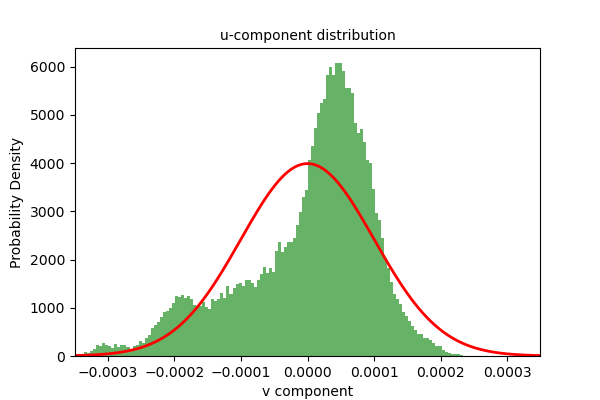
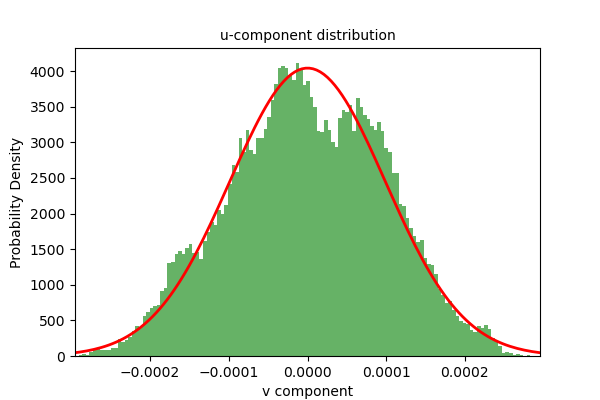
before_merge

diff --git a/numerical_solvers/visualization/histogram_turbulence.py b/numerical_solvers/visualization/histogram_turbulence.py
@@ -3,6 +3,7 @@ import numpy as np
 import matplotlib
 from matplotlib import cm
 import cv2
+import torch as t
 
 from numerical_solvers.solvers.SpectralTurbulenceGenerator import SpectralTurbulenceGenerator
 
@@ -35,22 +36,22 @@ def compute_kolmogorov_spectrum(u, v, Lx, Ly):
     Nx, Ny = u.shape
 
     # Compute the 2D Fourier transforms of the velocity fields
-    u_hat = np.fft.fft2(u)
-    v_hat = np.fft.fft2(v)
+    u_hat = t.fft.fft2(u)
+    v_hat = t.fft.fft2(v)
 
     # Compute the energy spectrum as the sum of the squared magnitudes of the Fourier coefficients
-    energy_spectrum = np.abs(u_hat)**2 + np.abs(v_hat)**2
+    energy_spectrum = t.abs(u_hat)**2 + t.abs(v_hat)**2
 
     # Average the energy spectrum over one dimension (e.g., the y-dimension)
-    energy_spectrum = np.mean(energy_spectrum, axis=0)
+    energy_spectrum = t.mean(energy_spectrum, axis=0)
 
     # Corresponding wavenumbers
-    kx = np.fft.fftfreq(Nx, d=Lx/Nx) * 2 * np.pi
-    ky = np.fft.fftfreq(Ny, d=Ly/Ny) * 2 * np.pi
-    k = np.sqrt(kx**2 + ky**2)
+    kx = t.fft.fftfreq(Nx, d=Lx/Nx) * 2 * t.pi
+    ky = t.fft.fftfreq(Ny, d=Ly/Ny) * 2 * t.pi
+    k = t.sqrt(kx**2 + ky**2)
 
     # Sort the spectrum by wavenumber
-    idx = np.argsort(k)
+    idx = t.argsort(k)
     k_sorted = k[idx]
     energy_spectrum_sorted = energy_spectrum[idx]
 
@@ -58,10 +59,10 @@ def compute_kolmogorov_spectrum(u, v, Lx, Ly):
 
 def plot_v_component_distribution(v_data, title):
     # Ensure the data is a 1D array
-    v_data = v_data.reshape(-1)  # Flatten the data
+    v_data = v_data.reshape(-1).cpu()  # Flatten the data
 
     num_bins = 128
-    counts, bins = np.histogram(v_data, bins=num_bins, density=True)
+    counts, bins = np.histogram(v_data, bins=num_bins, density=True) 
 
     bin_widths = np.diff(bins)
     integral = np.sum(counts * bin_widths)
@@ -99,7 +100,7 @@ grid_size = (256, 256)     # Number of grid points (Nx, Ny)
 
 # Initialize the SpectralTurbulenceGenerator (assuming it is already defined somewhere)
 turbulence_generator = SpectralTurbulenceGenerator(
-    domain_size, grid_size, turb_intensity=0.0001, noise_limiter=(-1E-3, 1E-3), energy_spectrum = lambda k: np.where(np.isinf(k ** (-5.0 / 3.0)), 0, k ** (-5.0 / 3.0)), frequency_range= {'k_min': 2.0 * np.pi / min(domain_size), 'k_max': 2.0 * np.pi / (min(domain_size) / 1024)}
+    domain_size, grid_size, turb_intensity=0.0001, noise_limiter=(-1E-3, 1E-3), energy_spectrum = lambda k: t.where(t.isinf(k ** (-5.0 / 3.0)), 0, k ** (-5.0 / 3.0)), frequency_range= {'k_min': 2.0 * np.pi / min(domain_size), 'k_max': 2.0 * np.pi / (min(domain_size) / 1024)}
 )
 
 # Generate the turbulent velocity field
@@ -112,14 +113,18 @@ u, v = turbulence_generator.generate_turbulence(time=0.5)
 
 k, energy_spectrum = compute_kolmogorov_spectrum(u, v, 1, 1)
 
+k_cpu = k.cpu()
+energy_spectrum_cpu = energy_spectrum.cpu()
+
 fig = plt.figure(figsize=(6, 4))
         
 # Create Axes with space for the title and labels
 ax = fig.add_axes([0.2, 0.2, 0.7, 0.7])  # [left, bottom, width, height] as fractions of the figure size
 # Plot the current energy spectrum
 ax.set_ylim([1E-7, 1E2])
-ax.loglog(k[1:len(k) // 2], energy_spectrum[1:len(k) // 2], 'b>', label='Energy spectrum')
-
+ax.loglog(k_cpu[1:len(k_cpu) // 2], 
+          energy_spectrum_cpu[1:len(k_cpu) // 2], 
+          'b>', label='Energy spectrum')
 
 # Add grid and labels
 ax.grid(True, which="both", ls="--")

diff --git a/numerical_solvers/solvers/LBM_NS_Solver.py b/numerical_solvers/solvers/LBM_NS_Solver.py
@@ -1,6 +1,6 @@
 import taichi as ti
 import taichi.math as tm
-import torch
+import torch as t
 
 from numerical_solvers.solvers.LBM_SolverBase import LBM_SolverBase
 from numerical_solvers.solvers.SpectralTurbulenceGenerator import SpectralTurbulenceGenerator
@@ -37,7 +37,7 @@ class LBM_NS_Solver(LBM_SolverBase):
             self.collide_cm()
              
             u_turb, v_turb = self.turbulenceGenerator.generate_turbulence(self.iterations_counter)     
-            turb_numpy = np.stack((u_turb, v_turb), axis=-1)  # Shape becomes (128, 128, 2)
+            turb_numpy = t.stack((u_turb, v_turb), axis=-1)  # Shape becomes (128, 128, 2)
             self.Force.from_numpy(turb_numpy)
             
             # self.init_gaussian_force_field(1E-3, 0, 1)
